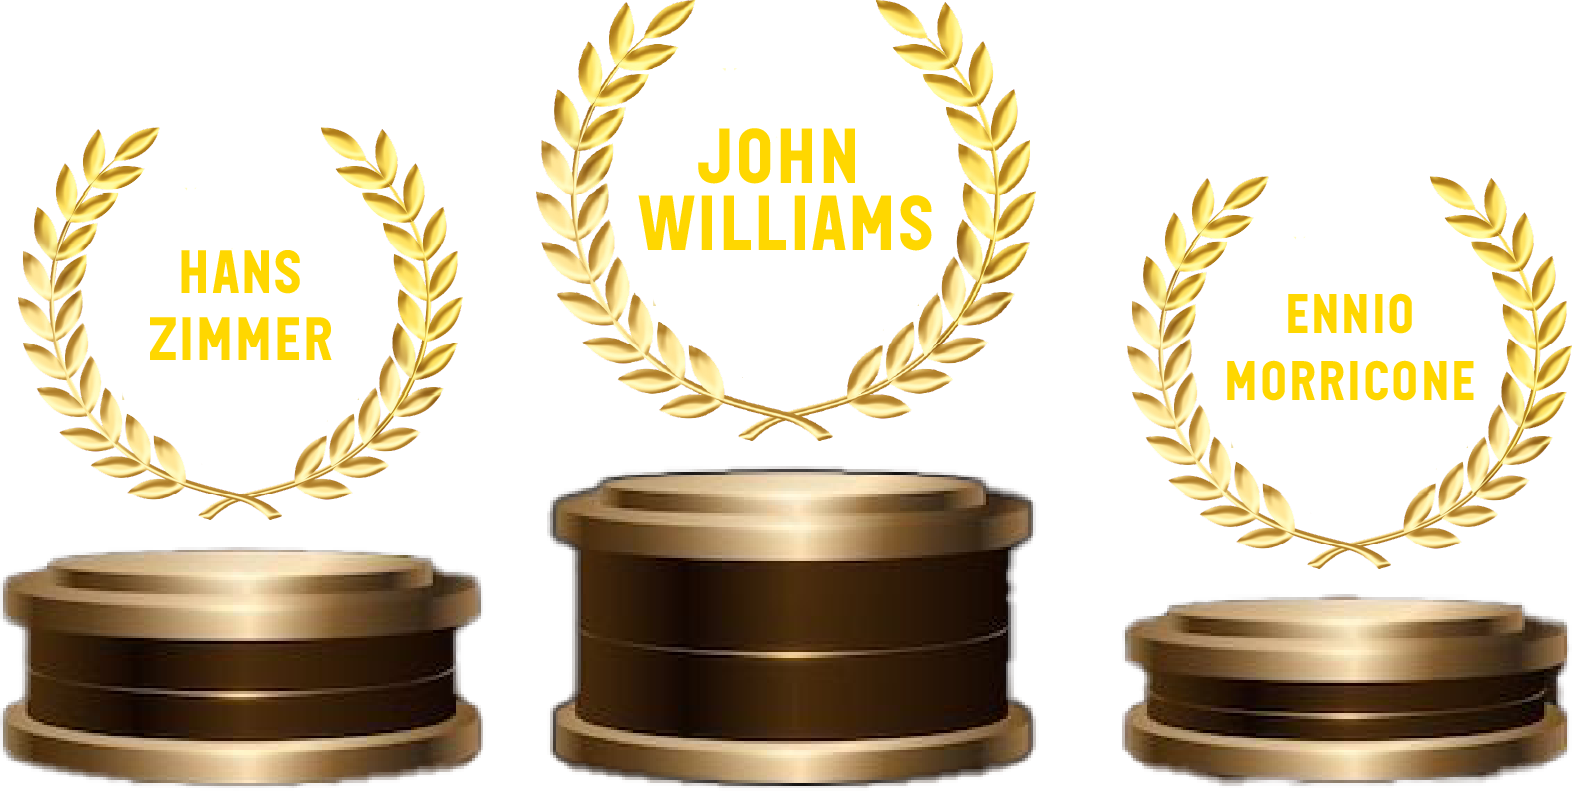
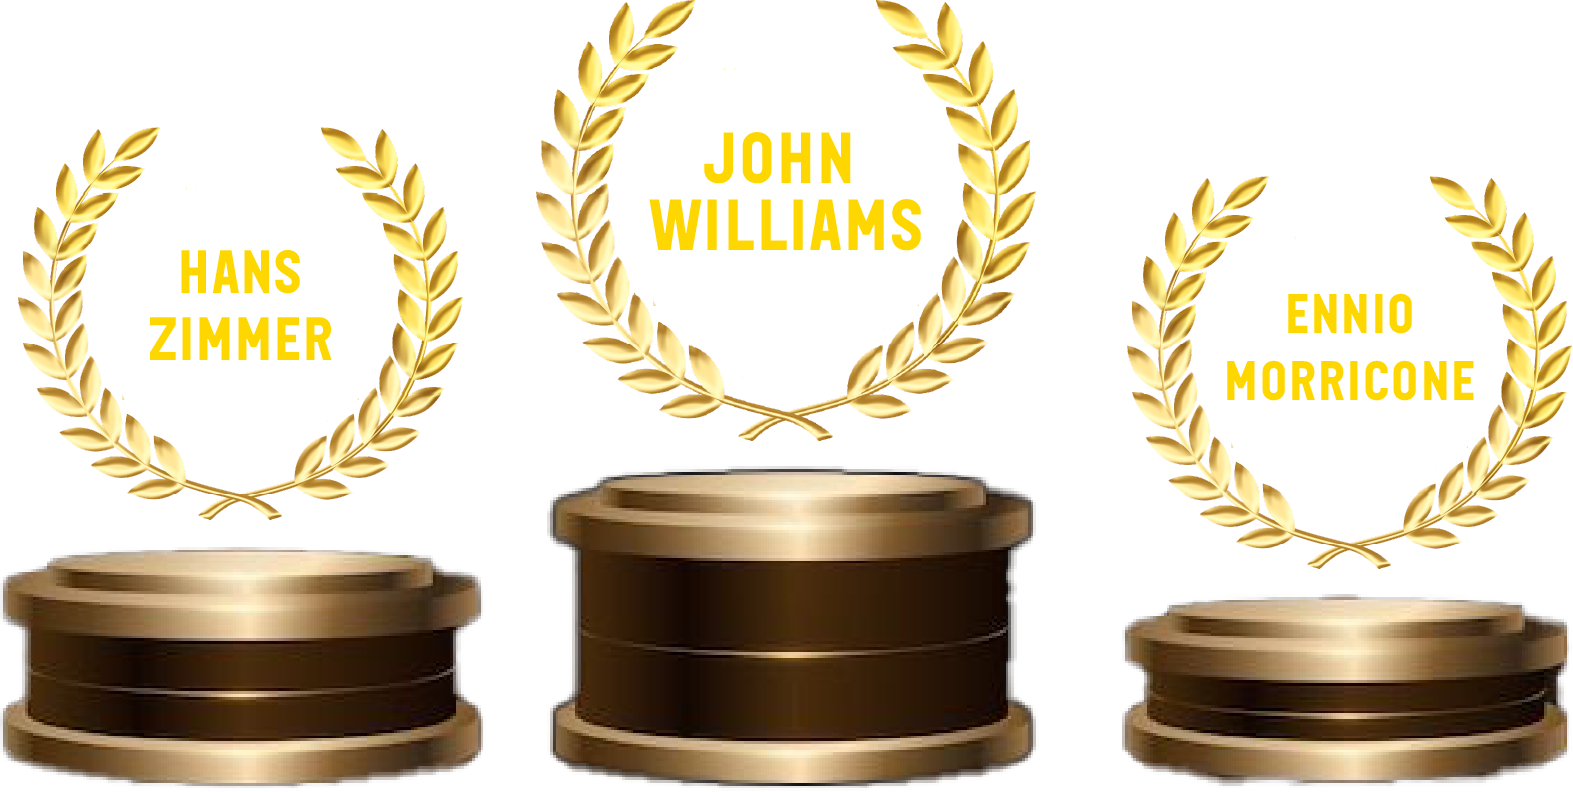
fix quelques details et interactivité podium

Changed region(s): [[0.405, 0.1515, 0.5919, 0.3333]]

diff --git a/script/section2script.js b/script/section2script.js
@@ -62,7 +62,7 @@ document.addEventListener("DOMContentLoaded", () => {
                 <div class="text-film">
                   <h5></h5>
                   <p>${nom.Oscar}</p>
-                  <a href="${nom.Lien}" class="icone_lien"><i class="fa-solid fa-arrow-up-right-from-square"></i></a>
+                  <a href="${nom.Lien}" class="icone_lien" title="Voir la page Allociné (Nouvel Onglet)" target="blank"><i class="fa-solid fa-arrow-up-right-from-square"></i></a>
                 </div>
               </div>
             `
@@ -150,31 +150,36 @@ document.addEventListener("DOMContentLoaded", () => {
       updateNavNames(currentIndex);
     }
 
-    btnLeft.onclick = () => showSlide(currentIndex - 1);
-    btnRight.onclick = () => showSlide(currentIndex + 1);
-    showSlide(currentIndex);
+    // ----- Navigation et lien interactif avec le podium ----- //
 
-    // ----- lien interactif avec le podium ----- //
+    const lights = document.querySelectorAll('#light0, #light1, #light2');
 
-    const lights = document.querySelectorAll('#light1, #light2, #light3');
+    function activeLight(newIndex) {
 
-    function activeLight(light) {
+      
+      const slides = document.querySelectorAll(".slide");
+      if (!slides.length) return;
+      if (newIndex < 0) newIndex = slides.length - 1;
+      if (newIndex >= slides.length) newIndex = 0;
 
       lights.forEach(l => l.classList.remove('active'));
-
+      let light = document.getElementById('light'+newIndex)
       light.classList.add('active');
 
-      const slide = light.dataset.slide;
-      showSlide(slide);
+      showSlide(newIndex);
 
     }
+
     lights.forEach(light => {
       light.addEventListener('click', () => {
-        activeLight(light)
+        activeLight(light.dataset.slide)
       });
     });
 
-    activeLight(document.getElementById('light1'))
+    btnLeft.onclick = () => activeLight(currentIndex - 1);
+    btnRight.onclick = () => activeLight(currentIndex + 1);
+
+    activeLight(0)
 
   }
 

diff --git a/index.html b/index.html
@@ -81,9 +81,9 @@
               the soul of the seventh art.
             </p>
             <div class="couronne-compo">
-              <div class="light1" id="light1" data-slide="3"></div>
-              <div class="light2" id="light2" data-slide="1"></div>
-              <div class="light3" id="light3" data-slide="2"></div>
+              <div class="light2" id="light2" data-slide="2"></div>
+              <div class="light0" id="light0" data-slide="0"></div>
+              <div class="light1" id="light1" data-slide="1"></div>
               <img class="podium-img" src="images/podium-full.png" alt="" />
             </div>
           </div>
@@ -114,6 +114,7 @@
                 <span id="st-singer">Artiste</span>
               </h3>
               <p>
+                From : 
                 <span id="st-film-title">Titre du film</span> -
                 <span id="st-film-director">Réalisateur</span> (<span
                   id="st-film-date"

diff --git a/style/section2styles.css b/style/section2styles.css
@@ -401,9 +401,9 @@
     transform: translateX(-50%) scaleY(1);
 } */
 
+.light0,
 .light1,
-.light2,
-.light3 {
+.light2 {
     width: 30%;
     height: 100%;
     background: linear-gradient(to top, rgba(250, 208, 196, 0), #ffe65b, rgba(250, 208, 196, 0));
@@ -412,25 +412,26 @@
     position: absolute;
     opacity: 0;
     transition: opacity 0.5s;
+    cursor: pointer;
 }
 
-.light1 {
+.light0 {
     left: 50%;
     transform: translateX(-50%);
     top: -10%;
 }
 
-.light2 {
+.light1 {
     left: 0;
 }
 
-.light3 {
+.light2 {
     right: 0;
 }
 
+.light0:hover,
 .light1:hover,
-.light2:hover,
-.light3:hover {
+.light2:hover {
     opacity: 0.2;
 }
 
